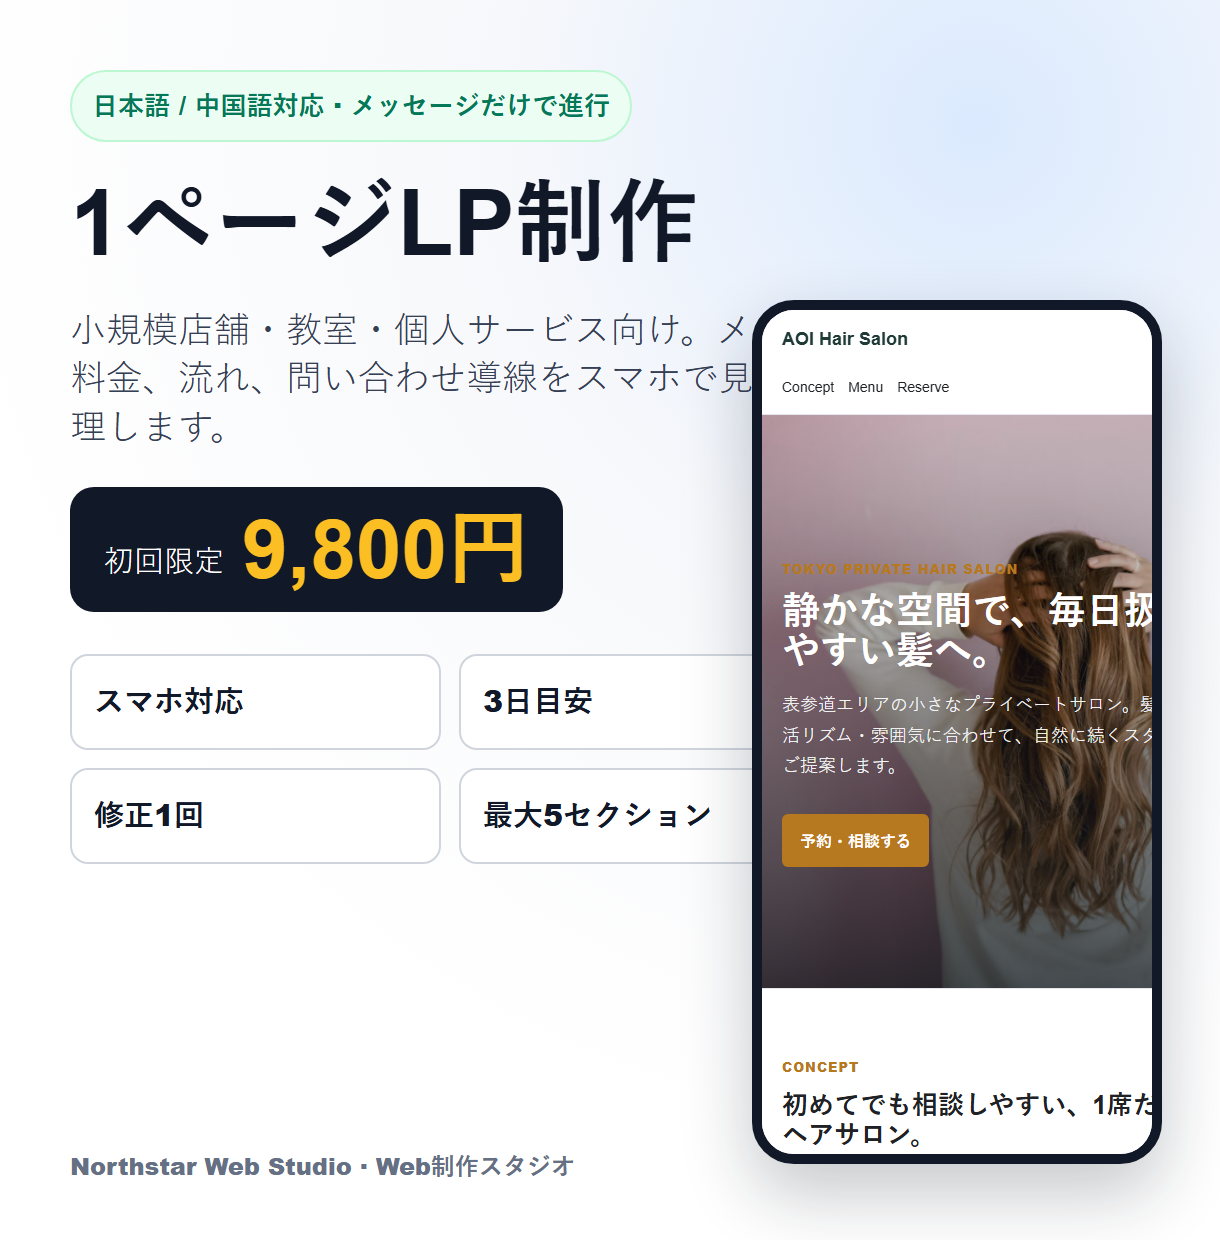
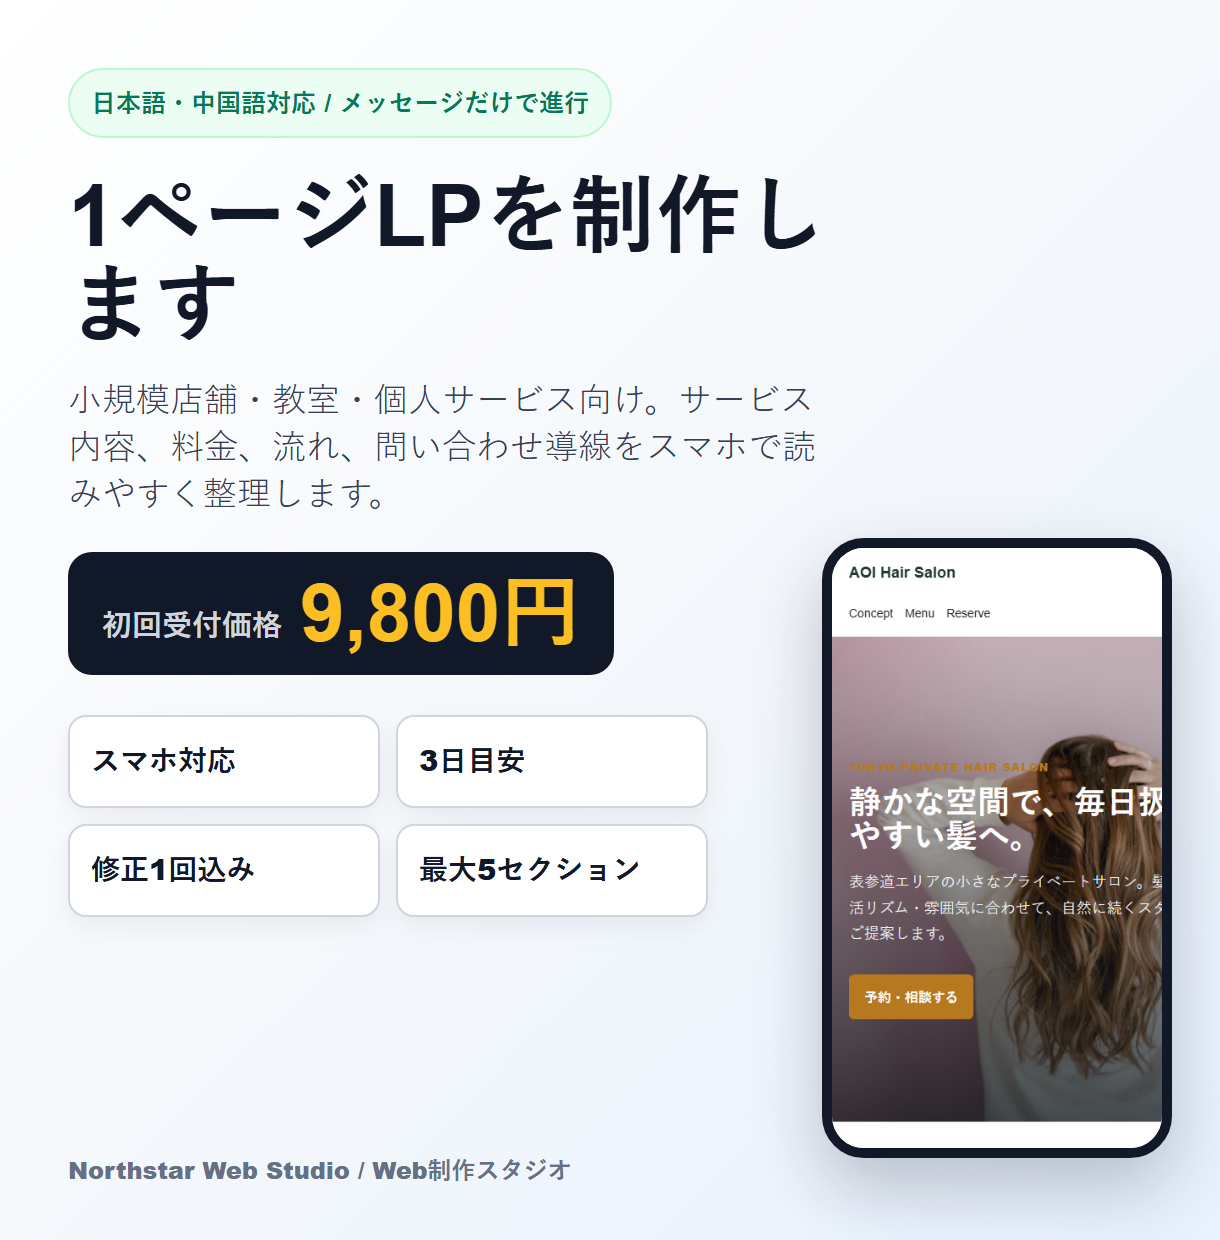
Add complete Coconala portfolio image set

diff --git a/index.html b/index.html
@@ -73,10 +73,11 @@
     .process{display:grid;grid-template-columns:repeat(4,1fr);gap:14px;counter-reset:step}
     .step{background:white;border:1px solid var(--line);border-radius:8px;padding:18px}
     .step:before{counter-increment:step;content:counter(step);display:grid;place-items:center;width:30px;height:30px;border-radius:50%;background:#111827;color:white;font-weight:900;margin-bottom:12px}
-    .covers{display:grid;grid-template-columns:1.35fr .65fr;gap:18px;align-items:start}
+    .covers{display:grid;grid-template-columns:1fr;gap:18px;align-items:start}
+    .cover-gallery{display:grid;grid-template-columns:repeat(3,1fr);gap:16px}
     .cover{background:white;border:1px solid var(--line);border-radius:8px;padding:18px}
     .cover img{width:100%;border:1px solid var(--line);border-radius:7px;display:block;background:#f2f4f7}
-    .cover-list{display:grid;gap:12px}
+    .cover-list{display:grid;grid-template-columns:repeat(3,1fr);gap:12px}
     .qa{display:grid;grid-template-columns:1fr 1fr;gap:18px}
     .qa div{background:#f8fafc;border:1px solid var(--line);border-radius:8px;padding:18px}
     .sticky-cta{position:fixed;left:50%;bottom:16px;transform:translateX(-50%);z-index:60;background:rgba(17,24,39,.94);color:white;border:1px solid rgba(255,255,255,.18);border-radius:8px;padding:10px 12px;display:flex;align-items:center;gap:12px;box-shadow:0 18px 52px rgba(17,24,39,.25)}
@@ -91,7 +92,7 @@
     .detail-box{border:1px solid var(--line);border-radius:8px;padding:14px;background:#f8fafc}
     footer{background:#101828;color:#cbd5e1;padding:34px 20px;margin-bottom:74px}
     @media(max-width:960px){
-      .hero-grid,.grid,.packages,.process,.covers,.qa,.detail-grid,.screen{grid-template-columns:1fr}
+      .hero-grid,.grid,.packages,.process,.covers,.qa,.detail-grid,.screen,.cover-gallery,.cover-list{grid-template-columns:1fr}
       .stage{min-height:auto}.phone{position:relative;right:auto;margin:16px auto 0}.screen-visual{min-height:260px}
       .section-head{display:block}.filters{margin-top:14px}nav{align-items:flex-start;flex-direction:column}nav a{margin-left:0;margin-right:14px}
       .sticky-cta{width:calc(100vw - 20px);justify-content:space-between}.sticky-cta span{font-size:13px;white-space:normal;line-height:1.25;flex:1}
@@ -229,13 +230,20 @@
 
     <section class="alt" id="covers">
       <div class="wrap">
-        <div class="section-head"><div><h2>平台上架封面素材</h2><p>Coconala、Lancers、猪八戒可以先用这些图。封面文字另有上架包，避免违规词。</p></div></div>
+        <div class="section-head"><div><h2>平台上架封面素材</h2><p>先主攻 Coconala：6 张日语服务图已经按平台使用场景整理，覆盖主封面、案例、手机端、包含内容、制作流程和范围说明。</p></div></div>
         <div class="covers">
-          <div class="cover"><img src="assets/cover-home-desktop.png" alt="作品集桌面封面"><div class="actions"><a class="smallbtn dark" href="assets/cover-home-desktop.png">打开桌面封面</a><a class="smallbtn" href="assets/cover-home-mobile.png">打开手机封面</a></div></div>
+          <div class="cover-gallery">
+            <div class="cover"><img src="assets/coconala-cover-main.png" alt="Coconala 主封面"><h3>01 主封面</h3><p>一页 LP 制作、价格和核心卖点。</p><div class="actions"><a class="smallbtn dark" href="assets/coconala-cover-main.png">打开图片</a></div></div>
+            <div class="cover"><img src="assets/coconala-cover-cases.png" alt="Coconala 案例展示"><h3>02 案例展示</h3><p>展示店铺、教室、咨询、个人服务。</p><div class="actions"><a class="smallbtn dark" href="assets/coconala-cover-cases.png">打开图片</a></div></div>
+            <div class="cover"><img src="assets/coconala-cover-mobile.png" alt="Coconala 手机端展示"><h3>03 手机端展示</h3><p>SNS 链接和移动端阅读场景。</p><div class="actions"><a class="smallbtn dark" href="assets/coconala-cover-mobile.png">打开图片</a></div></div>
+            <div class="cover"><img src="assets/coconala-cover-included.png" alt="Coconala 服务包含内容"><h3>04 包含内容</h3><p>说明基础套餐里包含什么。</p><div class="actions"><a class="smallbtn dark" href="assets/coconala-cover-included.png">打开图片</a></div></div>
+            <div class="cover"><img src="assets/coconala-cover-flow.png" alt="Coconala 制作流程"><h3>05 制作流程</h3><p>强调只用站内消息也能推进。</p><div class="actions"><a class="smallbtn dark" href="assets/coconala-cover-flow.png">打开图片</a></div></div>
+            <div class="cover"><img src="assets/coconala-cover-scope.png" alt="Coconala 范围说明"><h3>06 范围说明</h3><p>提前说明边界，减少低价单纠纷。</p><div class="actions"><a class="smallbtn dark" href="assets/coconala-cover-scope.png">打开图片</a></div></div>
+          </div>
           <div class="cover-list">
-            <div class="cover"><h3>Coconala 封面文案</h3><p>1ページLP制作 / 日本語・中国語対応 / 3日目安 / 修正1回 / 9,800円</p></div>
-            <div class="cover"><h3>猪八戒封面文案</h3><p>499元一页落地页 / 课程咨询小店适用 / 手机适配 / 3天交付</p></div>
-            <div class="cover"><h3>素材位置</h3><p>本地目录：D:\ai-monthly-income-project\agency-restart\assets</p></div>
+            <div class="cover"><h3>Coconala 标题</h3><p>日本語・中国語対応の1ページLPを制作します</p></div>
+            <div class="cover"><h3>初始定价</h3><p>9,800円。先用低价获取第一批平台成交和评价。</p></div>
+            <div class="cover"><h3>上架原则</h3><p>不放邮箱、LINE、PayPal、外部链接；只用平台站内消息沟通。</p></div>
           </div>
         </div>
       </div>

diff --git a/coconala-cover-main.html b/coconala-cover-main.html
@@ -3,36 +3,37 @@
 <head>
   <meta charset="utf-8">
   <meta name="viewport" content="width=device-width, initial-scale=1">
-  <title>Coconala Cover</title>
+  <title>Coconala Cover Main</title>
   <style>
-    *{box-sizing:border-box}body{margin:0;width:1220px;height:1240px;font-family:Arial,"Hiragino Kaku Gothic ProN","Yu Gothic",sans-serif;background:#f7f8fb;color:#111827;overflow:hidden}
-    .canvas{width:1220px;height:1240px;padding:70px;background:radial-gradient(circle at 80% 10%,#dbeafe 0,#f7f8fb 32%,#fff 70%);position:relative}
-    .badge{display:inline-block;background:#ecfdf3;color:#047857;border:2px solid #bbf7d0;border-radius:999px;padding:13px 20px;font-size:26px;font-weight:900;margin-bottom:34px}
-    h1{font-size:92px;line-height:1.03;margin:0 0 30px;letter-spacing:0;max-width:870px}
-    .sub{font-size:36px;line-height:1.35;color:#344054;max-width:830px;margin-bottom:34px}
-    .price{display:inline-flex;align-items:end;gap:18px;background:#111827;color:white;border-radius:24px;padding:26px 34px;margin-bottom:42px}
-    .price span{font-size:30px}.price b{font-size:82px;line-height:.9;color:#fbbf24}
-    .points{display:grid;grid-template-columns:1fr 1fr;gap:18px;width:760px}
-    .point{background:white;border:2px solid #d0d5dd;border-radius:18px;padding:22px;font-size:30px;font-weight:900}
-    .mock{position:absolute;right:58px;bottom:76px;width:410px;border:10px solid #111827;border-radius:42px;background:white;box-shadow:0 30px 70px rgba(17,24,39,.24);overflow:hidden}
-    .mock img{width:100%;display:block}
-    .foot{position:absolute;left:70px;bottom:54px;font-size:24px;color:#667085;font-weight:800}
+    *{box-sizing:border-box}
+    body{margin:0;width:1220px;height:1240px;font-family:Arial,"Hiragino Kaku Gothic ProN","Yu Gothic",sans-serif;background:#f7f8fb;color:#111827;overflow:hidden}
+    .canvas{width:1220px;height:1240px;padding:68px;background:linear-gradient(135deg,#ffffff 0%,#f3f7fb 58%,#e7f1ff 100%);position:relative}
+    .badge{display:inline-flex;gap:10px;align-items:center;background:#ecfdf3;color:#047857;border:2px solid #bbf7d0;border-radius:999px;padding:13px 21px;font-size:25px;font-weight:900;margin-bottom:34px}
+    h1{font-size:86px;line-height:1.03;margin:0 0 28px;letter-spacing:0;max-width:770px}
+    .sub{font-size:34px;line-height:1.38;color:#344054;max-width:760px;margin:0 0 34px}
+    .price{display:inline-flex;align-items:flex-end;gap:18px;background:#111827;color:white;border-radius:24px;padding:25px 34px;margin-bottom:40px}
+    .price span{font-size:30px;font-weight:800;color:#d0d5dd}.price b{font-size:80px;line-height:.92;color:#fbbf24}
+    .points{display:grid;grid-template-columns:1fr 1fr;gap:16px;width:640px}
+    .point{background:white;border:2px solid #d0d5dd;border-radius:18px;padding:21px;font-size:29px;font-weight:900;box-shadow:0 10px 26px rgba(17,24,39,.06)}
+    .mock{position:absolute;right:48px;bottom:82px;width:350px;border:10px solid #111827;border-radius:42px;background:white;box-shadow:0 30px 70px rgba(17,24,39,.24);overflow:hidden}
+    .mock img{width:100%;height:600px;object-fit:cover;object-position:top;display:block}
+    .foot{position:absolute;left:68px;bottom:50px;font-size:24px;color:#667085;font-weight:800}
   </style>
 </head>
 <body>
   <div class="canvas">
-    <div class="badge">日本語 / 中国語対応 · メッセージだけで進行</div>
-    <h1>1ページLP制作</h1>
-    <p class="sub">小規模店舗・教室・個人サービス向け。メニュー、料金、流れ、問い合わせ導線をスマホで見やすく整理します。</p>
-    <div class="price"><span>初回限定</span><b>9,800円</b></div>
+    <div class="badge">日本語・中国語対応 / メッセージだけで進行</div>
+    <h1>1ページLPを制作します</h1>
+    <p class="sub">小規模店舗・教室・個人サービス向け。サービス内容、料金、流れ、問い合わせ導線をスマホで読みやすく整理します。</p>
+    <div class="price"><span>初回受付価格</span><b>9,800円</b></div>
     <div class="points">
       <div class="point">スマホ対応</div>
       <div class="point">3日目安</div>
-      <div class="point">修正1回</div>
+      <div class="point">修正1回込み</div>
       <div class="point">最大5セクション</div>
     </div>
     <div class="mock"><img src="assets/case-salon-mobile.png" alt=""></div>
-    <div class="foot">Northstar Web Studio · Web制作スタジオ</div>
+    <div class="foot">Northstar Web Studio / Web制作スタジオ</div>
   </div>
 </body>
 </html>

diff --git a/coconala-cover-cases.html b/coconala-cover-cases.html
@@ -5,23 +5,28 @@
   <meta name="viewport" content="width=device-width, initial-scale=1">
   <title>Coconala Cover Cases</title>
   <style>
-    *{box-sizing:border-box}body{margin:0;width:1220px;height:1240px;font-family:Arial,"Hiragino Kaku Gothic ProN","Yu Gothic",sans-serif;background:#111827;color:white;overflow:hidden}
-    .canvas{padding:64px}.eyebrow{display:inline-block;background:#fef3c7;color:#92400e;border-radius:999px;padding:12px 18px;font-size:24px;font-weight:900;margin-bottom:28px}
-    h1{font-size:78px;line-height:1.04;margin:0 0 22px}.sub{font-size:32px;color:#d0d5dd;margin:0 0 36px;max-width:900px}.grid{display:grid;grid-template-columns:1fr 1fr;gap:22px}.shot{background:white;border-radius:22px;padding:14px;color:#111827}.shot img{width:100%;height:310px;object-fit:cover;object-position:top;border-radius:14px;border:1px solid #d0d5dd}.shot b{display:block;font-size:30px;margin:14px 6px 4px}.shot span{display:block;color:#667085;font-size:22px;margin:0 6px 8px}.notice{margin-top:28px;background:#0f766e;border-radius:18px;padding:24px;font-size:32px;font-weight:900;text-align:center}
+    *{box-sizing:border-box}
+    body{margin:0;width:1220px;height:1240px;font-family:Arial,"Hiragino Kaku Gothic ProN","Yu Gothic",sans-serif;background:#111827;color:white;overflow:hidden}
+    .canvas{width:1220px;height:1240px;padding:54px 60px;background:linear-gradient(145deg,#111827 0%,#182230 62%,#0f766e 100%)}
+    .eyebrow{display:inline-block;background:#fef3c7;color:#92400e;border-radius:999px;padding:11px 17px;font-size:23px;font-weight:900;margin-bottom:22px}
+    h1{font-size:64px;line-height:1.05;margin:0 0 16px;letter-spacing:0}.sub{font-size:28px;color:#d0d5dd;margin:0 0 26px;max-width:960px;line-height:1.34}
+    .grid{display:grid;grid-template-columns:1fr 1fr;gap:16px}.shot{background:white;border-radius:20px;padding:12px;color:#111827;box-shadow:0 18px 44px rgba(0,0,0,.22)}
+    .shot img{width:100%;height:224px;object-fit:cover;object-position:top;border-radius:13px;border:1px solid #d0d5dd}.shot b{display:block;font-size:27px;margin:12px 6px 3px}.shot span{display:block;color:#667085;font-size:20px;margin:0 6px 6px}
+    .notice{margin-top:20px;background:#fbbf24;color:#261600;border-radius:18px;padding:20px;font-size:29px;font-weight:900;text-align:center}
   </style>
 </head>
 <body>
   <div class="canvas">
     <div class="eyebrow">制作イメージ</div>
-    <h1>美容室・教室・相談サービスに対応</h1>
-    <p class="sub">サービス内容、料金、予約・問い合わせ導線を1ページに整理します。</p>
+    <h1>店舗・教室・個人サービスに対応</h1>
+    <p class="sub">内容、料金、予約までの流れを1ページに整理。初めてのWebページでも見やすい構成で制作します。</p>
     <div class="grid">
       <div class="shot"><img src="assets/case-salon-desktop.png" alt=""><b>美容室 / サロン</b><span>メニュー・料金・予約導線</span></div>
       <div class="shot"><img src="assets/case-course-desktop.png" alt=""><b>教室 / レッスン</b><span>内容・料金・申込み導線</span></div>
       <div class="shot"><img src="assets/case-consulting-desktop.png" alt=""><b>相談サービス</b><span>流れ・料金・FAQ</span></div>
       <div class="shot"><img src="assets/case-nail-desktop.png" alt=""><b>ネイル / 個人サービス</b><span>日本語・中国語対応</span></div>
     </div>
-    <div class="notice">低予算でもまず1ページで公開したい方向け</div>
+    <div class="notice">低予算でも、まず公開できる1ページを用意したい方向け</div>
   </div>
 </body>
 </html>

diff --git a/coconala-cover-flow.html b/coconala-cover-flow.html
@@ -1,0 +1,32 @@
+<!doctype html>
+<html lang="ja">
+<head>
+  <meta charset="utf-8">
+  <meta name="viewport" content="width=device-width, initial-scale=1">
+  <title>Coconala Cover Flow</title>
+  <style>
+    *{box-sizing:border-box}
+    body{margin:0;width:1220px;height:1240px;font-family:Arial,"Hiragino Kaku Gothic ProN","Yu Gothic",sans-serif;background:#101828;color:white;overflow:hidden}
+    .canvas{width:1220px;height:1240px;padding:70px;background:linear-gradient(145deg,#101828 0%,#182230 68%,#0f766e 100%)}
+    .badge{display:inline-block;background:#dcfce7;color:#166534;border-radius:999px;padding:12px 18px;font-size:24px;font-weight:900;margin-bottom:26px}
+    h1{font-size:76px;line-height:1.05;margin:0 0 22px;letter-spacing:0}.sub{font-size:31px;color:#d0d5dd;max-width:920px;margin:0 0 40px;line-height:1.42}
+    .steps{display:grid;gap:22px}.step{display:grid;grid-template-columns:120px 1fr;align-items:center;background:white;color:#111827;border-radius:24px;padding:23px}
+    .num{width:86px;height:86px;background:#0f766e;color:white;border-radius:50%;display:grid;place-items:center;font-size:42px;font-weight:900}.step b{font-size:37px}.step p{font-size:24px;color:#475467;margin:8px 0 0;line-height:1.35}
+    .foot{margin-top:34px;background:#fbbf24;color:#261600;border-radius:20px;padding:25px;font-size:33px;font-weight:900;text-align:center}
+  </style>
+</head>
+<body>
+  <div class="canvas">
+    <span class="badge">制作の流れ</span>
+    <h1>メッセージだけで進行できます</h1>
+    <p class="sub">電話会議なし。必要情報をトークルームで確認し、1ページLPを制作します。</p>
+    <div class="steps">
+      <div class="step"><div class="num">1</div><div><b>ヒアリング</b><p>業種、目的、掲載したい内容を確認します。</p></div></div>
+      <div class="step"><div class="num">2</div><div><b>原稿・素材確認</b><p>写真、料金、メニュー、参考イメージを確認します。</p></div></div>
+      <div class="step"><div class="num">3</div><div><b>初稿制作</b><p>素材がそろってから3日目安で制作します。</p></div></div>
+      <div class="step"><div class="num">4</div><div><b>修正1回・納品</b><p>軽微な修正を反映し、完成データで納品します。</p></div></div>
+    </div>
+    <div class="foot">範囲が明確なので、低予算でも進めやすい</div>
+  </div>
+</body>
+</html>

diff --git a/coconala-cover-mobile.html b/coconala-cover-mobile.html
@@ -1,0 +1,37 @@
+<!doctype html>
+<html lang="ja">
+<head>
+  <meta charset="utf-8">
+  <meta name="viewport" content="width=device-width, initial-scale=1">
+  <title>Coconala Cover Mobile</title>
+  <style>
+    *{box-sizing:border-box}
+    body{margin:0;width:1220px;height:1240px;font-family:Arial,"Hiragino Kaku Gothic ProN","Yu Gothic",sans-serif;background:#f8fafc;color:#111827;overflow:hidden}
+    .canvas{width:1220px;height:1240px;padding:62px;background:linear-gradient(135deg,#fff 0%,#eff6ff 100%);position:relative}
+    .eyebrow{display:inline-block;background:#dbeafe;color:#1d4ed8;border-radius:999px;padding:12px 18px;font-size:25px;font-weight:900;margin-bottom:28px}
+    h1{font-size:66px;line-height:1.07;margin:0 0 22px;letter-spacing:0;max-width:520px}.sub{font-size:30px;line-height:1.42;color:#344054;max-width:510px}
+    .phones{position:absolute;right:42px;top:148px;display:flex;gap:18px;align-items:flex-end}
+    .phone{width:286px;background:#111827;border:12px solid #111827;border-radius:48px;box-shadow:0 26px 66px rgba(17,24,39,.23);overflow:hidden}.phone.small{width:286px;opacity:.96}
+    .phone img{width:100%;height:660px;object-fit:contain;object-position:top center;background:#fff;border-radius:34px;display:block}
+    .points{position:absolute;left:62px;bottom:108px;width:520px;display:grid;gap:18px}.point{background:white;border:2px solid #d0d5dd;border-radius:18px;padding:22px;font-size:29px;font-weight:900}
+    .foot{position:absolute;left:62px;bottom:48px;font-size:24px;color:#667085;font-weight:800}
+  </style>
+</head>
+<body>
+  <div class="canvas">
+    <span class="eyebrow">スマホで見やすい1ページ</span>
+    <h1>SNSリンクから見せやすい</h1>
+    <p class="sub">スマホ閲覧を前提に、メニュー・料金・問い合わせ導線を迷わず読める順番に整理します。</p>
+    <div class="phones">
+      <div class="phone small"><img src="assets/cover-home-mobile.png" alt=""></div>
+      <div class="phone"><img src="assets/case-salon-mobile.png" alt=""></div>
+    </div>
+    <div class="points">
+      <div class="point">大きく押しやすいボタン</div>
+      <div class="point">読みやすい料金表示</div>
+      <div class="point">問い合わせまで迷わせない</div>
+    </div>
+    <div class="foot">Northstar Web Studio / Web制作スタジオ</div>
+  </div>
+</body>
+</html>

diff --git a/coconala-cover-scope.html b/coconala-cover-scope.html
@@ -1,0 +1,47 @@
+<!doctype html>
+<html lang="ja">
+<head>
+  <meta charset="utf-8">
+  <meta name="viewport" content="width=device-width, initial-scale=1">
+  <title>Coconala Cover Scope</title>
+  <style>
+    *{box-sizing:border-box}
+    body{margin:0;width:1220px;height:1240px;font-family:Arial,"Hiragino Kaku Gothic ProN","Yu Gothic",sans-serif;background:#fff;color:#111827;overflow:hidden}
+    .canvas{padding:70px;background:#f8fafc;width:1220px;height:1240px}.badge{display:inline-block;background:#fee2e2;color:#991b1b;border-radius:999px;padding:12px 18px;font-size:24px;font-weight:900;margin-bottom:26px}
+    h1{font-size:70px;line-height:1.08;margin:0 0 22px;letter-spacing:0}.sub{font-size:31px;color:#344054;max-width:960px;margin:0 0 42px;line-height:1.42}
+    .columns{display:grid;grid-template-columns:1fr 1fr;gap:26px}.col{border-radius:24px;padding:34px;background:white;border:2px solid #d0d5dd;min-height:560px}.col.ok{border-color:#86efac}.col.no{border-color:#fecaca}
+    .col h2{font-size:44px;margin:0 0 24px}.col ul{margin:0;padding-left:28px}.col li{font-size:30px;margin:18px 0;line-height:1.22}.ok h2{color:#047857}.no h2{color:#b91c1c}
+    .note{margin-top:34px;background:#111827;color:white;border-radius:22px;padding:28px;font-size:31px;line-height:1.36;font-weight:900}
+  </style>
+</head>
+<body>
+  <div class="canvas">
+    <span class="badge">初回価格プランの範囲</span>
+    <h1>できること / 別料金になること</h1>
+    <p class="sub">後からトラブルにならないよう、最初に制作範囲を明確にします。</p>
+    <div class="columns">
+      <div class="col ok">
+        <h2>含まれる内容</h2>
+        <ul>
+          <li>1ページ制作</li>
+          <li>最大5セクション</li>
+          <li>スマホ対応</li>
+          <li>文章整理</li>
+          <li>修正1回</li>
+        </ul>
+      </div>
+      <div class="col no">
+        <h2>別料金</h2>
+        <ul>
+          <li>追加ページ</li>
+          <li>予約システム</li>
+          <li>決済機能</li>
+          <li>会員機能</li>
+          <li>無制限修正</li>
+        </ul>
+      </div>
+    </div>
+    <div class="note">集客・売上・SEO順位の保証はできません。内容を分かりやすく整理する制作サービスです。</div>
+  </div>
+</body>
+</html>

diff --git a/coconala-cover-included.html b/coconala-cover-included.html
@@ -1,0 +1,33 @@
+<!doctype html>
+<html lang="ja">
+<head>
+  <meta charset="utf-8">
+  <meta name="viewport" content="width=device-width, initial-scale=1">
+  <title>Coconala Cover Included</title>
+  <style>
+    *{box-sizing:border-box}
+    body{margin:0;width:1220px;height:1240px;font-family:Arial,"Hiragino Kaku Gothic ProN","Yu Gothic",sans-serif;background:#fff;color:#111827;overflow:hidden}
+    .canvas{padding:70px;width:1220px;height:1240px;background:linear-gradient(135deg,#fff 0%,#fff7ed 42%,#f8fafc 100%)}
+    .badge{display:inline-block;background:#fff7ed;color:#b45309;border:2px solid #fed7aa;border-radius:999px;padding:12px 18px;font-size:24px;font-weight:900;margin-bottom:26px}
+    h1{font-size:76px;line-height:1.05;margin:0 0 22px;letter-spacing:0}.sub{font-size:31px;color:#344054;max-width:940px;margin:0 0 42px;line-height:1.42}
+    .grid{display:grid;grid-template-columns:1fr 1fr;gap:22px}.item{background:white;border:2px solid #d0d5dd;border-radius:22px;padding:28px;min-height:142px;box-shadow:0 12px 28px rgba(17,24,39,.06)}
+    .item span{display:block;color:#b45309;font-size:24px;font-weight:900;margin-bottom:8px}.item b{font-size:36px;line-height:1.16}.note{margin-top:38px;background:#111827;color:white;border-radius:22px;padding:30px;font-size:34px;font-weight:900;text-align:center}
+  </style>
+</head>
+<body>
+  <div class="canvas">
+    <span class="badge">基本プランに含まれる内容</span>
+    <h1>1ページで必要情報を整理</h1>
+    <p class="sub">小さな予算でも、サービス内容・料金・流れ・問い合わせ導線を分かりやすく見せる構成で制作します。</p>
+    <div class="grid">
+      <div class="item"><span>Section 01</span><b>トップメッセージ</b></div>
+      <div class="item"><span>Section 02</span><b>サービス紹介</b></div>
+      <div class="item"><span>Section 03</span><b>メニュー / 料金</b></div>
+      <div class="item"><span>Section 04</span><b>流れ / FAQ</b></div>
+      <div class="item"><span>Section 05</span><b>問い合わせ導線</b></div>
+      <div class="item"><span>Plus</span><b>スマホ対応</b></div>
+    </div>
+    <div class="note">最大5セクション / 修正1回 / 完成データ納品</div>
+  </div>
+</body>
+</html>
